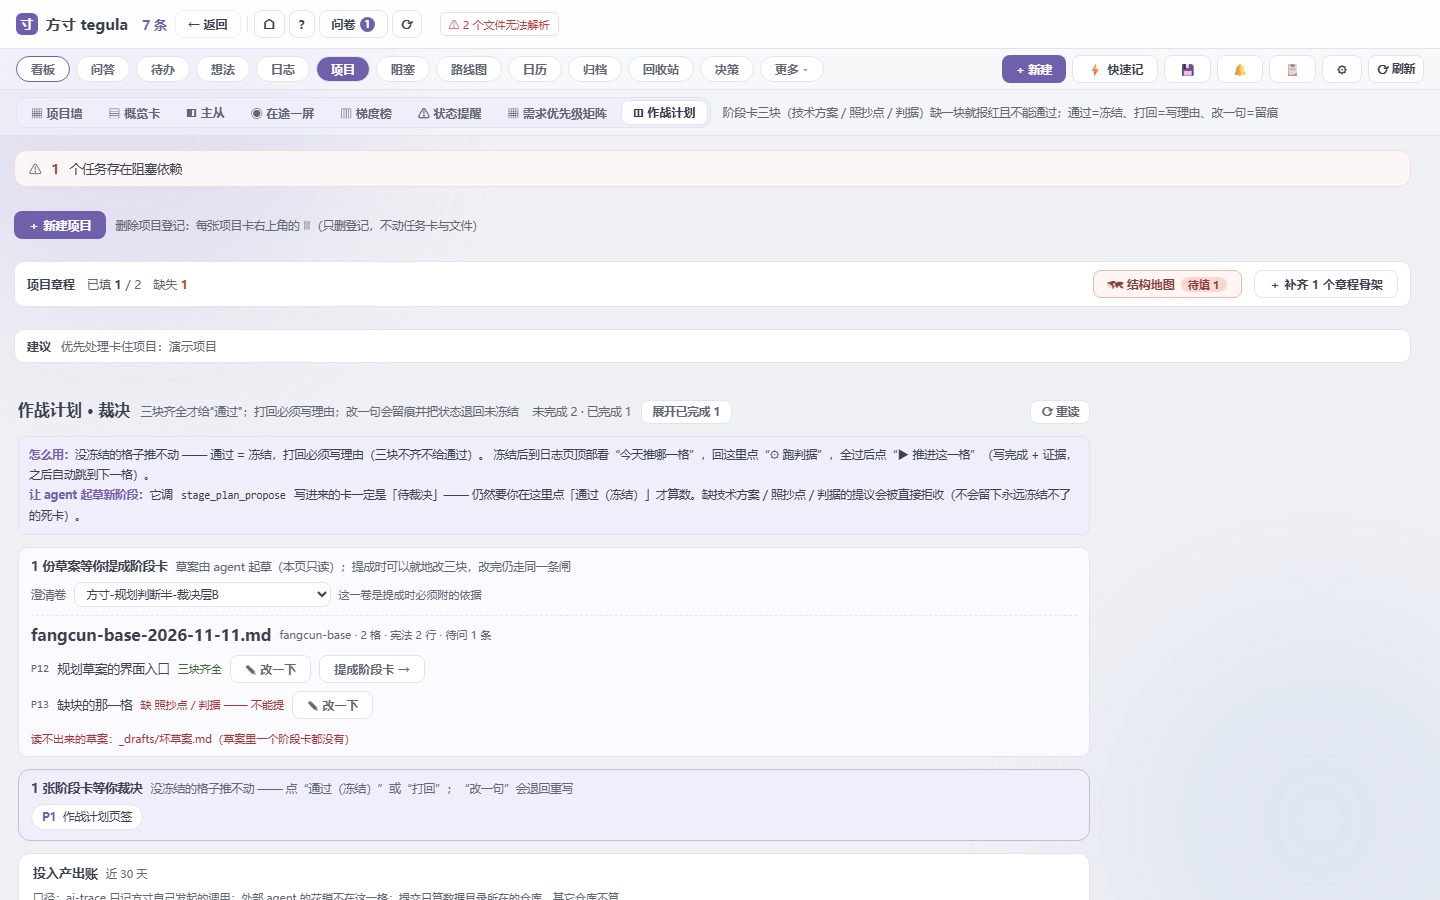
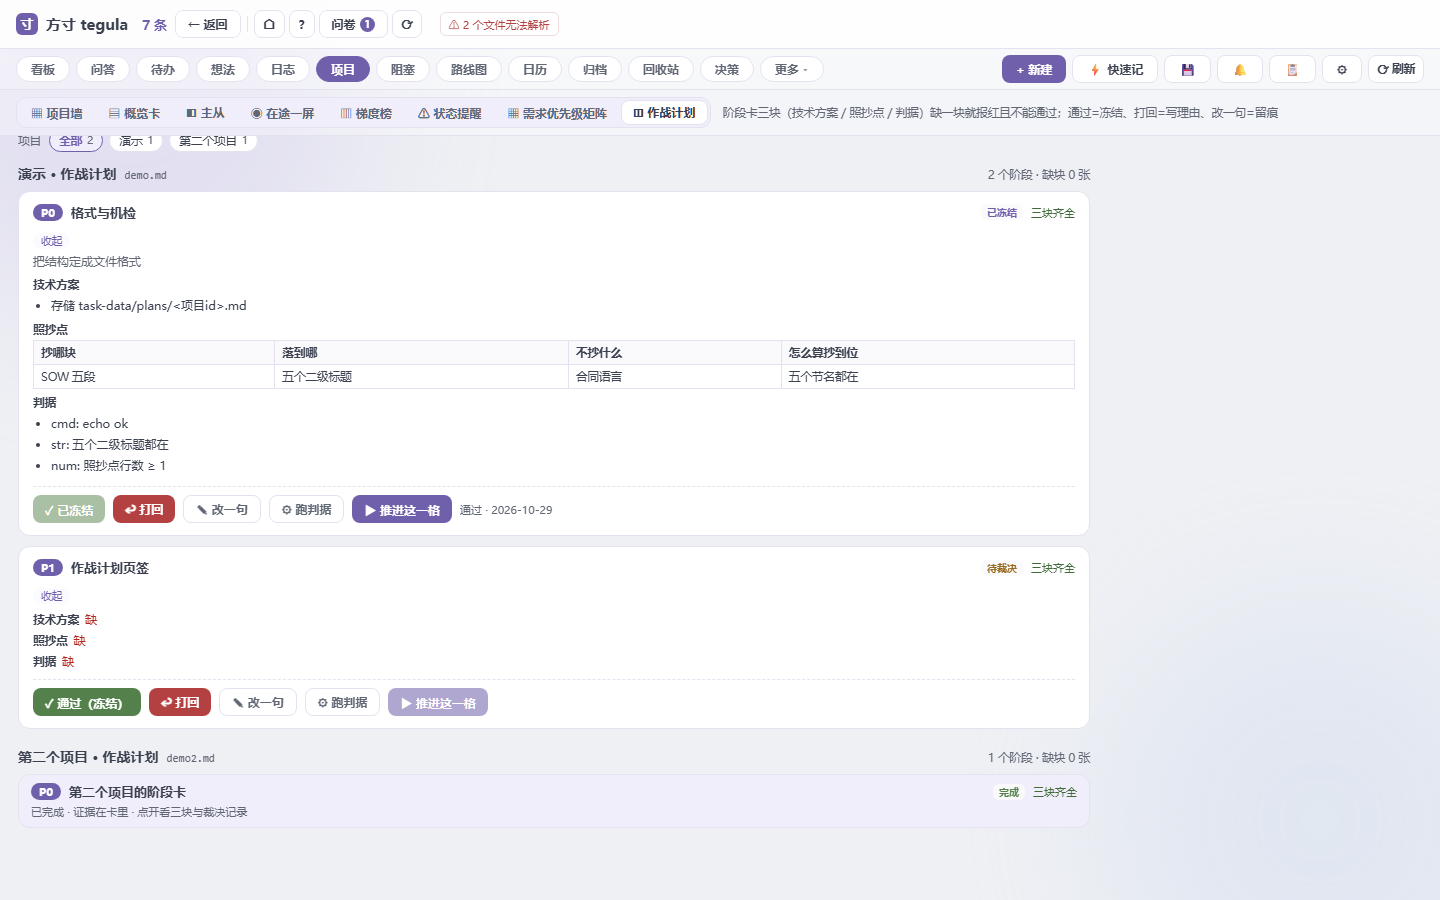
feat(P2-2): 作战计划阶段卡默认折叠 —— 466 行压回一屏
实测真数据（不是猜的）：fangcun-base 有 **12 个阶段 × 每阶段 15–22 行正文 = 466 行**。
此前只有「已完成」那批折叠（2026-11-08），**未完成的全部铺开** —— 那才是"一坨"的主体。

## 规则（按"这张卡该不该让人现在就看见"分）
- **待裁决 → 默认展开**（那正是要人做决定的地方，不该再点一次）
- **已冻结 → 默认展开**（它是已定下的施工依据，折叠等于把依据藏了；且通常只一两行）
- 其余（草稿 / 未冻结 / 未填状态）→ **默认收起成一行摘要**
- 用户点过的以用户为准（`foldKey` 记显式选择，与 `showDone` 是两个维度）
- 展开态给「收起」入口 —— 展开之后得能收回去，否则"点了就永远长"

## 验证
- 断言 1258 → **1262/0**（新增 4 条：已冻结默认展开 · 待裁决默认展开 · 有收起入口 ·
  已完成的折叠规则没被这轮改坏）
- 反例自证：去掉 `if (st === '已冻结') return true` → 精确红（含新加那条）
- 截图重拍并**目检**：P0 已冻结展开显示三块、P1 待裁决展开、第二项目那张完成卡收成一行
- ⚠ 顺带修了截图用例：阶段卡在"待裁决清单/投入产出账"**下面**，不滚下去拍不到 ——
  第一版连拍三张"只有清单一屏"，等于没验

verify 328/0 · e2e-plan-tab 34/0

diff --git a/desktop/src/renderer/views/PlanView.vue b/desktop/src/renderer/views/PlanView.vue
@@ -230,7 +230,20 @@
           已完成 · 证据在卡里 · 点开看三块与裁决记录
         </div>
 
+        <!-- 2026-11-14（长 Loop P2-2）：**未完成的也默认收起**。
+             实测真数据：fangcun-base 12 个阶段、每阶段 15–22 行正文，全部铺开 = 466 行，
+             滚一屏都看不完一张卡 —— 这就是"一坨文字"的量化来源。
+             折叠规则与「已完成」一致：默认只留标题行（id + 标题 + 状态 + 缺块提示），
+             点一下看三块；**待裁决的卡默认展开**（那正是要人做決定的地方，不该再点一次）。
+             ⚠ 用 `foldKey` 记展开状态（`file::id`），与 `showDone` 那套分开 ——
+               它们是两个维度（"完成了没" vs "这一张我展开看没看"）。 -->
+        <div v-else-if="!isExpanded(doc, s)" class="plan-fold-hint" @click="toggleStage(doc, s)">
+          {{ s.what ? String(s.what).slice(0, 60) + (String(s.what).length > 60 ? '…' : '') : '点开看技术方案 / 照抄点 / 判据' }}
+        </div>
+
         <template v-else>
+          <!-- 展开态给一个收起按钮 —— 展开之后得能收回去，否则"点了就永远长" -->
+          <div class="plan-fold-hint on" @click="toggleStage(doc, s)">收起</div>
           <div class="plan-what" v-if="s.what">{{ s.what }}</div>
 
         <div class="plan-block">
@@ -394,6 +407,38 @@ const visibleDocs = computed(() =>
  */
 const showDone = ref(false)
 const isDone = (s: Stage): boolean => String(s.status || '').trim() === '完成'
+
+/**
+ * 单张阶段卡的展开状态（2026-11-14 · 长 Loop P2-2）。
+ *
+ * 为什么需要它：真数据 fangcun-base 有 12 个阶段、每阶段 15–22 行，全部铺开 466 行。
+ * 「已完成」早就有折叠（showDone），但**未完成的那些是全展开的** —— 那才是"一坨"的主体。
+ *
+ * 默认规则：
+ *   · 待裁决 → **默认展开**（那正是要人做决定的地方，不该再点一次）
+ *   · 其余（待办 / 进行中 / 未填状态）→ 默认收起，只露一行摘要
+ * 用户点过之后以用户的为准（`foldKey` 里记的是"用户显式改成了什么"）。
+ */
+const foldKey = ref<Record<string, boolean>>({})
+function stageKey(doc: Doc, s: any): string { return doc.file + '::' + s.id }
+function isExpanded(doc: Doc, s: any): boolean {
+  const k = stageKey(doc, s)
+  if (k in foldKey.value) return foldKey.value[k]
+  // 没点过：**待裁决**与**已冻结**都默认展开。
+  //  · 待裁决 —— 那正是要人做决定的地方，不该再点一次；
+  //  · 已冻结 —— 它是"已经定下来的施工依据"，折叠起来等于把依据藏了；
+  //    而且冻结卡通常只有一两行（三块已在冻结时被审过），不占地方。
+  // 只折叠那些既没裁决、也不是待裁决的（草稿 / 未冻结 / 未填状态）——
+  // 那些才是"一坨"的主体。
+  const st = String(s?.status || '').trim()
+  if (st === '待裁决' || st === '待裁决（未冻结）' || st === '未冻结') return true
+  if (st === '已冻结') return true
+  return false
+}
+function toggleStage(doc: Doc, s: any): void {
+  const k = stageKey(doc, s)
+  foldKey.value = { ...foldKey.value, [k]: !isExpanded(doc, s) }
+}
 const totalStages = computed(() => visibleDocs.value.reduce((n, d) => n + d.stages.length, 0))
 const doneStages = computed(() => {
   const out: Array<{ file: string; stageId: string }> = []

diff --git a/desktop/test/renderer-web-assert.js b/desktop/test/renderer-web-assert.js
@@ -3002,6 +3002,33 @@
       const pendingItems = $$('.plan-view .plan-pending-item')
       check('★ 清单逐张列出（夹具 1 张待裁决 → 1 个可点条目）',
         pendingItems.length === 1, pendingItems.length + ' 项')
+
+      // ── 阶段卡默认折叠（2026-11-14 · 长 Loop P2-2）─────────────────────
+      // 为什么必须钉：真数据 fangcun-base 有 12 个阶段、每阶段 15–22 行正文，
+      // 全部铺开 466 行 —— 滚一屏看不完一张卡，这就是"一坨文字"的量化来源。
+      // 规则：**待裁决 / 已冻结 → 默认展开**（前者要人做决定、后者是施工依据），
+      //      其余（完成 / 未填状态）→ 默认收起成一行摘要。
+      // ⚠ 已完成的折叠是 2026-11-08 就有的（showDone），这里验的是**新增那一半**。
+      {
+        const boxOf = (id) => $$('.plan-view .plan-stage').find(
+          (x) => (((x.querySelector('.plan-id') || {}).textContent) || '').trim() === id)
+        const p0 = boxOf('P0')   // 夹具里 P0 是「已冻结」
+        const p1 = boxOf('P1')   // 夹具里 P1 是「待裁决」
+        check('★★ 已冻结的阶段卡**默认展开**（三块施工依据不该被折叠藏起来）',
+          !!p0 && !!p0.querySelector('.plan-block'), p0 ? 'blocks=' + p0.querySelectorAll('.plan-block').length : '没有 P0')
+        check('★★ 待裁决的阶段卡**默认展开**（那是要人做决定的地方，不该再点一次）',
+          !!p1 && !!p1.querySelector('.plan-block'), p1 ? 'blocks=' + p1.querySelectorAll('.plan-block').length : '没有 P1')
+        check('★ 展开态的卡上有「收起」入口（展开之后得能收回去）',
+          !!p0 && !!Array.prototype.slice.call(p0.querySelectorAll('.plan-fold-hint'))
+            .find((x) => (x.textContent || '').indexOf('收起') >= 0),
+          p0 ? Array.prototype.slice.call(p0.querySelectorAll('.plan-fold-hint')).map((x) => (x.textContent || '').trim()).join('|') : '')
+        // 第二个项目的 P0 是「完成」→ 应默认收起成一行（那条折叠 11-08 就有，别被这轮改坏）
+        const doneBoxes = $$('.plan-view .plan-stage.done')
+        check('★ 已完成的卡仍默认收起（2026-11-08 的规则没被这轮改坏）',
+          doneBoxes.length >= 1 && doneBoxes.every((b) => !b.querySelector('.plan-block')),
+          'done=' + doneBoxes.length)
+      }
+
       check('★ 条目点名阶段号（点了能跳过去，不是一句光话）',
         /P1/.test(((pendingItems[0] || {}).textContent) || ''), ((pendingItems[0] || {}).textContent) || '')
       if (pendingItems[0]) pendingItems[0].click()

diff --git a/desktop/src/renderer/styles/app.css b/desktop/src/renderer/styles/app.css
@@ -2256,6 +2256,10 @@ button.lpill:hover { border-color: var(--accent-soft); background: var(--tint-2)
 .plan-stage.done .plan-stage-head { margin-bottom: 0; }
 .plan-fold-hint { margin-top: 4px; font-size: 11px; color: var(--muted); cursor: pointer; }
 .plan-fold-hint:hover { color: var(--accent); }
+/* 展开态那个「收起」：与折叠提示同一行为，但**视觉上要能区分**
+   （2026-11-14 P2-2）——展开之后按钮还在原位置，不做区分会让人以为"点了没用"。 */
+.plan-fold-hint.on { align-self: flex-start; margin: 6px 0 2px; padding: 1px 8px; border-radius: 999px;
+  background: var(--tint-2); color: var(--accent); font-size: 10.5px; display: inline-block; }
 .plan-count { font-size: 11.5px; color: var(--muted); margin-left: 4px; font-variant-numeric: tabular-nums; }
 
 .plan-stage-head { display: flex; align-items: center; gap: 8px; flex-wrap: wrap; margin-bottom: 6px; }
